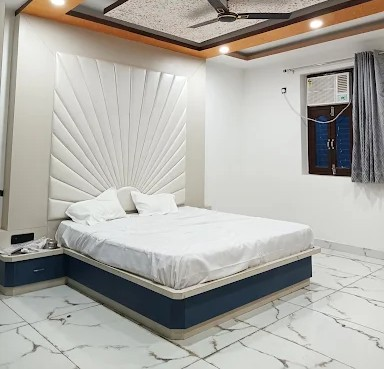
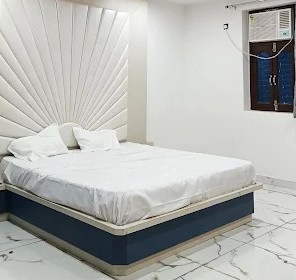
Update image references in rooms.html and rooms.css to use new image files for consistency and improved aesthetics.

diff --git a/assets/css/pages/rooms.css b/assets/css/pages/rooms.css
@@ -355,7 +355,7 @@
         }
 
         .room-card-img--deluxe {
-            background-image: url('../../images/Deluxe Sanctum Room.jpg');
+            background-image: url('../../images/Deluxe.png');
         }
 
         .room-card-img--executive {